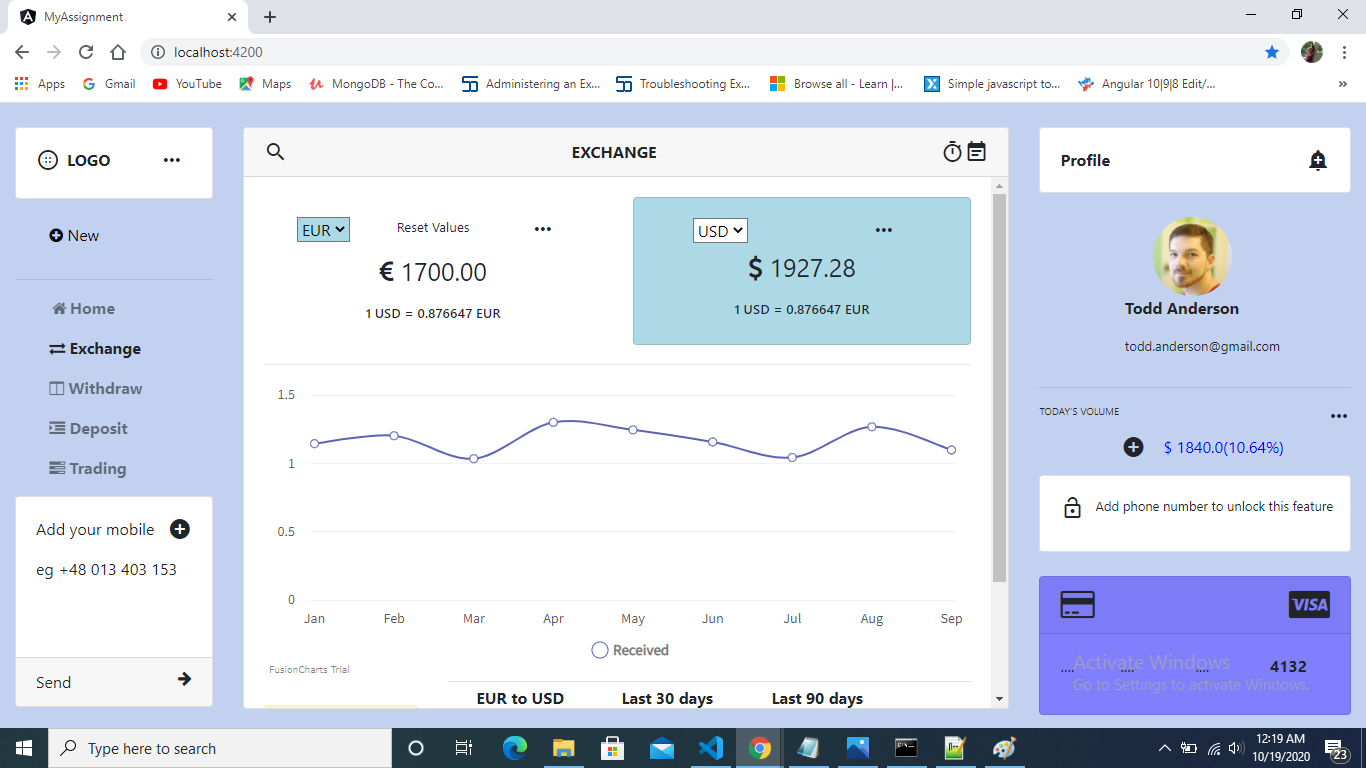
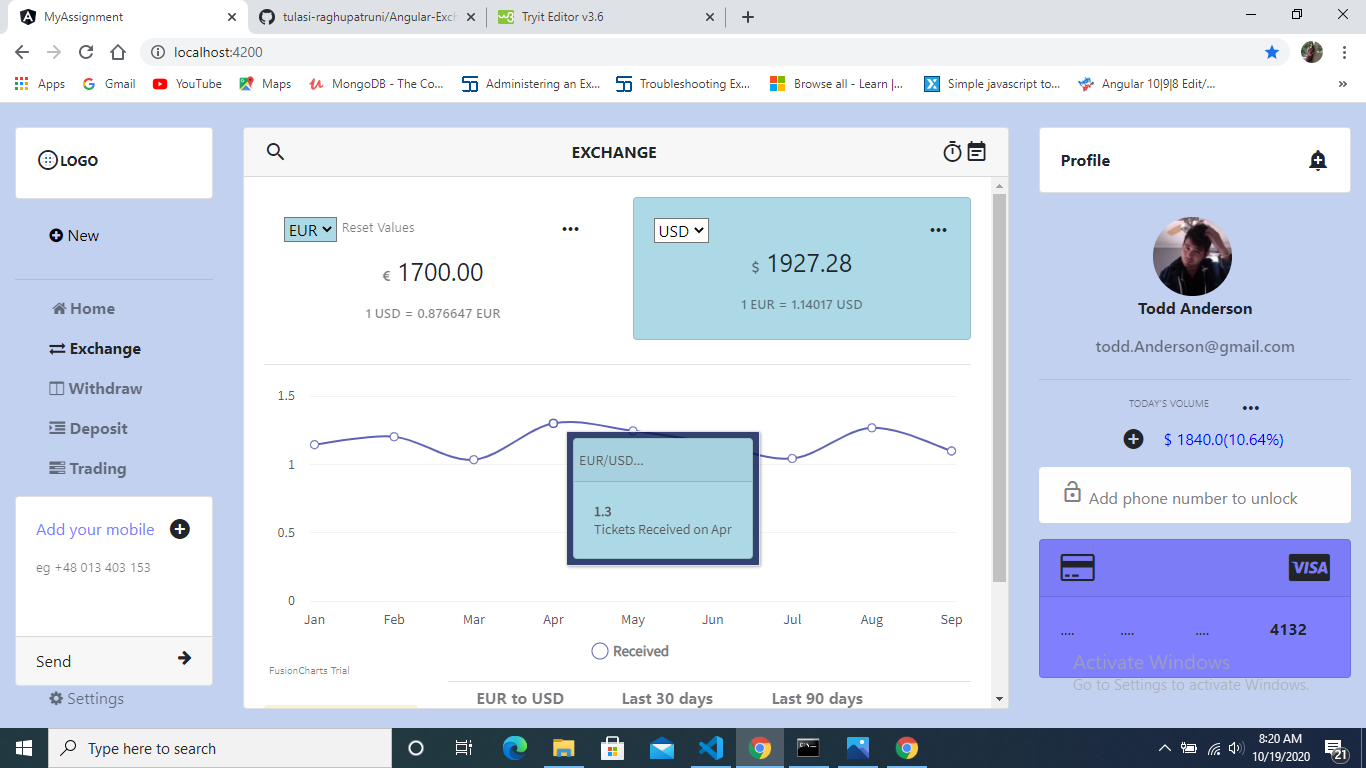
second commit

diff --git a/src/app/home-component/home-component.component.html b/src/app/home-component/home-component.component.html
@@ -1,6 +1,7 @@
   <!-- Required meta tags -->
   <meta charset="utf-8">
   <meta content="width=device-width, initial-scale=1.0" name="viewport" />
+  
   <meta http-equiv="X-UA-Compatible" content="IE=edge,chrome=1" />
   <!--     Fonts and icons     -->
   <!-- Latest compiled and minified CSS -->
@@ -18,23 +19,18 @@
   <br />
   <div class="container-fluid">
   <div class="row">
-    <div class="col-sm-2">
+    <div class="col-sm-2" id="col-1">
       <div class="card">
         <div class="card-body">
-          <div class="row" style="justify-content: center;" >
-            <div class="col-sm-2" >
+            <div style="float: left;margin:0;padding: 0;">
                 <i class="material-icons">blur_circular</i>
             </div>
-            <div class="col-sm-6" >
-              <b>LOGO</b>
+            <div>
+              <b style="text-align:center; font-size: 14px;"> LOGO</b>
             </div>
-            <div class="col-sm-4" >
-              <i class="material-icons" >more_horiz</i> 
-            </div>
-        </div>
          </div>
         </div>
-        <br/>
+        &nbsp;
           <div class="row" style="justify-content: center;">
              <div class="col-sm-12" style="margin-left: 5vw;">
               <p style="color:black;"><i class="fa fa-plus-circle"></i> New</p>
@@ -62,14 +58,20 @@
           <div class="card">
             <div class="card-body">
               <i class="material-icons" style="float: right;">add_circle</i>
-              <p class="card-text">Add your mobile</p>
-              <p class="card-text">eg +48 013 403 153</p>
-              <p>&nbsp;</p>
+              <p class="card-text" style="color:#8080ff">Add your mobile</p>
+              <p class="card-text" style="opacity: 0.6; font-size: small;">eg +48 013 403 153</p>
+              <br>
             </div>
             <div class="card-footer">
               Send  <i class="fa fa-arrow-right" style="float: right;" aria-hidden="true"></i>
             </div>
           </div>
+          <div class="row" style="justify-content: center;">
+            <div class="col-sm-12" style="margin-left: 5vw;">
+             <p style="opacity: 0.6;"><i class="fa fa-cog" aria-hidden="true"></i> Settings</p>
+            </div>
+         </div>
+
       </div>
 
     <div class="col-sm-7">
@@ -86,20 +88,20 @@
               <div class="card" id="card1" style="border: none;">
                 <div class="card-body">
                   <div class="row">
-                    <div class="col-sm">
+                    <div class="col-sm-2">
                   <select name="" style="background-color:lightblue">
                     <option value="EUR">EUR</option>
                   </select>
                 </div>
-                <div class="col-sm">
-                  <p style="font-size:smaller;">Reset Values</p>
+                <div class="col-sm-4">
+                  <p style="font-size:smaller; opacity: 0.6;">Reset Values</p>
                 </div>
-                <div class="col-sm" >
-                  <i class="material-icons" >more_horiz</i> 
+                <div class="col-sm-6" >
+                  <i class="material-icons" style="float: right;" >more_horiz</i> 
                 </div>
                 </div>
-                 <p style="font-size: 25px;"> <i class="fa fa-eur" aria-hidden="true"></i> 1700.00</p> 
-                  <h6 style="font-size: smaller;">1 USD = 0.876647 EUR</h6>
+                 <p style="font-size: 25px;"> <i class="fa fa-eur" aria-hidden="true" style="font-size: small; opacity: 0.6;"></i> 1700.00</p> 
+                  <h6 style="font-size: smaller; opacity: 0.6;">1 USD = 0.876647 EUR</h6>
               </div>
               </div>
             </div>
@@ -107,17 +109,17 @@
               <div class="card" id="card2" style="background-color:lightblue;">
                 <div class="card-body">
                    <div class="row">
-                    <div class="col-sm">
+                    <div class="col-sm-2">
                   <select name="" style="background-color: white;">
                     <option value="USD">USD</option>
                   </select>
                 </div>
-                <div class="col-sm" >
-                  <i class="material-icons" >more_horiz</i> 
+                <div class="col-sm-10" >
+                  <i class="material-icons" style="float: right;">more_horiz</i> 
                 </div>
                 </div>
-                <p style="font-size: 25px;"> <i class="fa fa-usd" aria-hidden="true"></i> 1927.28</p> 
-                  <h6 style="font-size: smaller;">1 USD = 0.876647 EUR</h6>
+                <p style="font-size: 25px;"> <i class="fa fa-usd" aria-hidden="true" style="font-size: small; opacity: 0.6;"></i> 1927.28</p> 
+                  <h6 style="font-size: smaller; opacity: 0.6;">1 EUR = 1.14017 USD</h6>
                 </div>
               </div>
             </div>
@@ -147,7 +149,7 @@
            <div class="col-sm-9">
             <table class="table table-striped table-sm">
               <thead>
-                <tr>
+                <tr style="opacity: 0.6;">
                   <th scope="col">EUR to USD</th>
                   <th scope="col">Last 30 days</th>
                   <th scope="col">Last 90 days</th>
@@ -189,8 +191,8 @@
           </div>
         </div>
       </div>
-      <div class="col-sm-3">
-        <div class="card"  >
+      <div class="col-sm-3" id="col-3">
+        <div class="card">
           <div class="card-body">
            <b>Profile</b> 
             <i class="material-icons" style="float: right;">add_alert</i>
@@ -204,39 +206,34 @@
             <img src="{{image}}" alt="Avatar" class="avatar" style="width: 40%; border-radius: 50%;" />
           </div>
             <br />
-            <div class="col-sm-3">
-            </div>
-            <div class="col-sm-9">
-            <p><b>Todd Anderson</b></p>
-            <p style="font-size: small;">todd.anderson@gmail.com</p> 
-            </div>
           </div>
+          <div class="row">
+            <div class="col-sm-12">
+          <p style="text-align: center;"><b>Todd Anderson</b></p>
+        </div>
+        <div class="col-sm-12">
+          <h6 style="opacity: 0.6; text-align:center;">todd.Anderson@gmail.com</h6>
+        </div>
+        </div>
             <hr />
             <div class="row" style="justify-content: center;">
-              <div class="col-sm-6">
-            <p style="font-size: x-small;">TODAY'S VOLUME</p> 
+              <div class="col-sm-7">
+            <p style="font-size: x-small; opacity: 0.6; float: right;">TODAY'S VOLUME</p> 
           </div>
-            <div class="col-sm-6">
-              <i class="material-icons" style="float: right;">more_horiz</i> 
+            <div class="col-sm-5">
+              <i class="material-icons" style="float: left;">more_horiz</i> 
             </div>
           </div>
           <div class="row" style="justify-content: center;">
           <div class="col-sm-2">
-            <i class="material-icons">add_circle</i>
+            <i class="material-icons" style="float: left;">add_circle</i>
           </div>
-            <p style="color:blue">$ 1840.0(10.64%)</p>
+            <p style="color:blue;float: right;">$ 1840.0(10.64%)</p>
+        </div>  
+        <div class="alert alert-light" role="alert">
+          <i class="material-icons">lock_open</i>
+          Add phone number to unlock
         </div>
-        <div class="card text-center">
-          <div class="card-body">
-            <div class="row">
-              <div class="col-sm-2">
-            <i class="material-icons">lock_open</i>
-          </div>
-              <p style="font-size:small;">Add phone number to unlock this feature</p>
-            </div>
-          </div>
-        </div >   
-       <br>
         <div class="card" style="background-color: #8080ff;">
           <div class="card-header">
             <div class="row">

diff --git a/src/app/home-component/home-component.component.css b/src/app/home-component/home-component.component.css
@@ -21,3 +21,4 @@
 }
 
 
+
